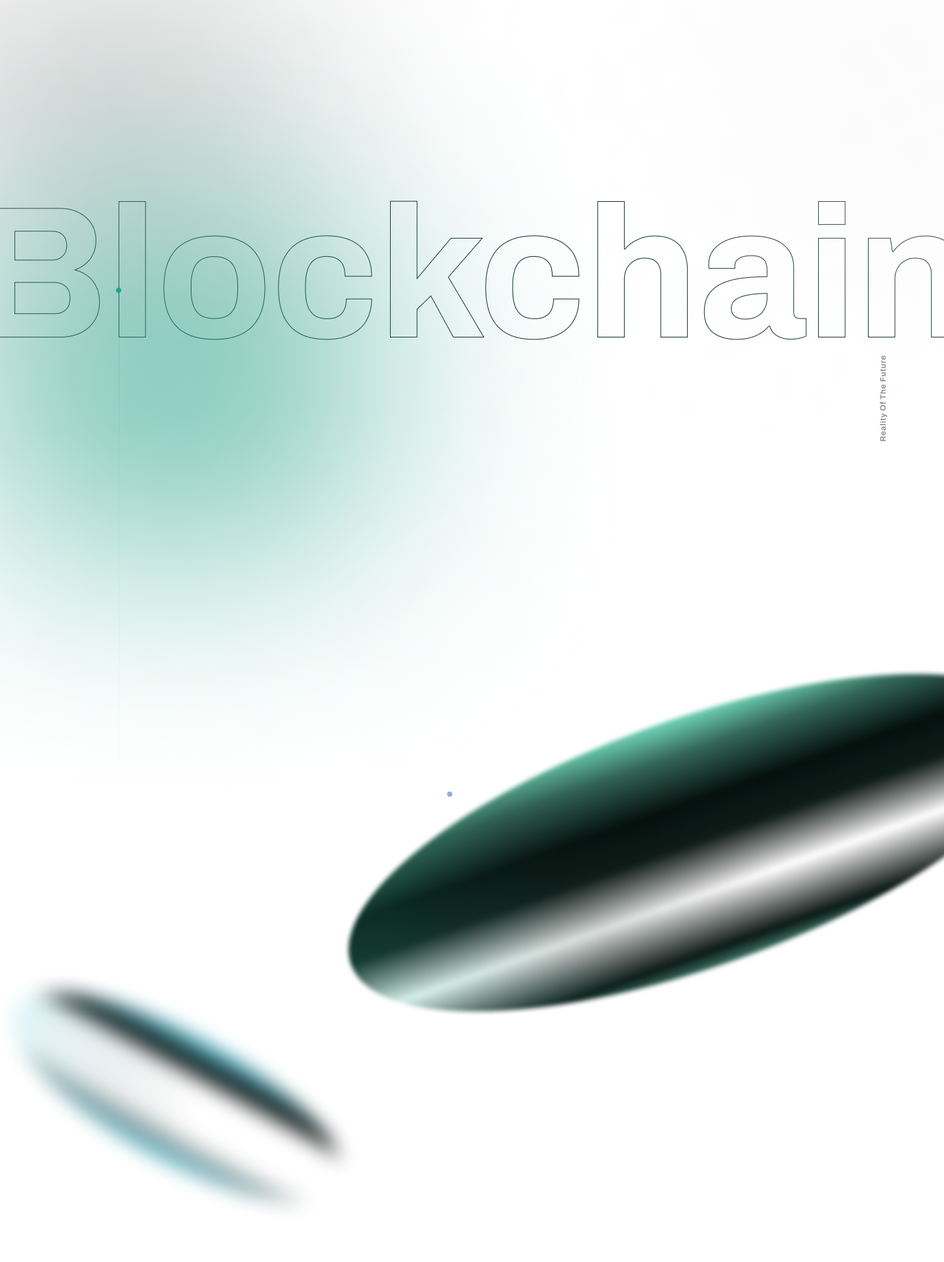
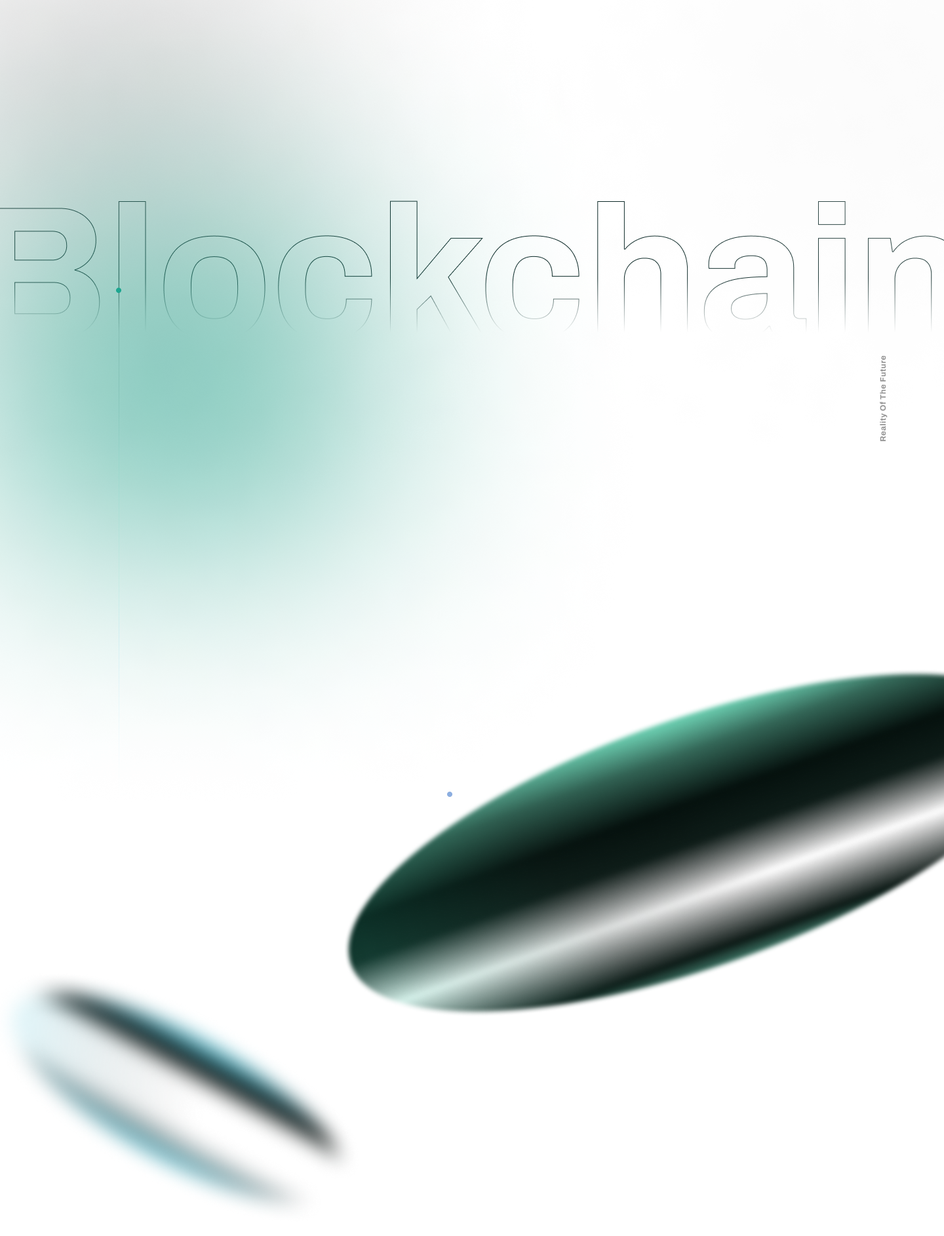
Add new element of main page and animations to the techband project

diff --git a/projects/techband/css/style.min.css b/projects/techband/css/style.min.css
@@ -1,1 +1,1 @@
-/*! normalize.css v8.0.1 | MIT License | github.com/necolas/normalize.css */html{line-height:1.15;-webkit-text-size-adjust:100%}body{margin:0}main{display:block}h1{font-size:2em;margin:.67em 0}hr{box-sizing:content-box;height:0;overflow:visible}pre{font-family:monospace,monospace;font-size:1em}a{background-color:transparent}abbr[title]{border-bottom:none;text-decoration:underline;-webkit-text-decoration:underline dotted;text-decoration:underline dotted}b,strong{font-weight:bolder}code,kbd,samp{font-family:monospace,monospace;font-size:1em}small{font-size:80%}sub,sup{font-size:75%;line-height:0;position:relative;vertical-align:baseline}sub{bottom:-.25em}sup{top:-.5em}img{border-style:none}button,input,optgroup,select,textarea{font-family:inherit;font-size:100%;line-height:1.15;margin:0}button,input{overflow:visible}button,select{text-transform:none}[type=button],[type=reset],[type=submit],button{-webkit-appearance:button}[type=button]::-moz-focus-inner,[type=reset]::-moz-focus-inner,[type=submit]::-moz-focus-inner,button::-moz-focus-inner{border-style:none;padding:0}[type=button]:-moz-focusring,[type=reset]:-moz-focusring,[type=submit]:-moz-focusring,button:-moz-focusring{outline:1px dotted ButtonText}fieldset{padding:.35em .75em .625em}legend{box-sizing:border-box;color:inherit;display:table;max-width:100%;padding:0;white-space:normal}progress{vertical-align:baseline}textarea{overflow:auto}[type=checkbox],[type=radio]{box-sizing:border-box;padding:0}[type=number]::-webkit-inner-spin-button,[type=number]::-webkit-outer-spin-button{height:auto}[type=search]{-webkit-appearance:textfield;outline-offset:-2px}[type=search]::-webkit-search-decoration{-webkit-appearance:none}::-webkit-file-upload-button{-webkit-appearance:button;font:inherit}details{display:block}summary{display:list-item}template{display:none}[hidden]{display:none}@font-face{font-family:BeVietnamPro;font-display:swap;src:url(../fonts/BeVietnamPro-Regular.woff2) format("woff2"),url(../fonts/BeVietnamPro-Regular.woff) format("woff");font-weight:400;font-style:normal}@font-face{font-family:DrukWide;font-display:swap;src:url(../fonts/DrukWide-Bold.woff2) format("woff2"),url(../fonts/DrukWide-Bold.woff) format("woff");font-weight:700;font-style:normal}@font-face{font-family:Roboto-bold;font-display:swap;src:url(../fonts/Roboto-bold.woff2) format("woff2"),url(../fonts/Roboto-bold.woff) format("woff");font-weight:700;font-style:normal}@font-face{font-family:Archivo;font-display:swap;src:url(../fonts/Archivo-Regular.woff2) format("woff2"),url(../fonts/Archivo-Regular.woff) format("woff");font-weight:400;font-style:normal}@font-face{font-family:Arimo;font-display:swap;src:url(../fonts/Arimo-Bold.woff2) format("woff2"),url(../fonts/Arimo-Bold.woff) format("woff");font-weight:700;font-style:normal}@font-face{font-family:Roboto-thin;font-display:swap;src:url(../fonts/Roboto-thin.woff2) format("woff2"),url(../fonts/Roboto-thin.woff) format("woff");font-weight:400;font-style:normal}@font-face{font-family:Roboto-medium;font-display:swap;src:url(../fonts/Roboto-medium.woff2) format("woff2"),url(../fonts/Roboto-medium.woff) format("woff");font-weight:400;font-style:normal}@font-face{font-family:Roboto;font-display:swap;src:url(../fonts/Roboto.woff2) format("woff2"),url(../fonts/Roboto.woff) format("woff");font-weight:400;font-style:normal}@font-face{font-family:"IBM Plex Sans";font-display:swap;src:url(../fonts/IBMPlexSans-Regular.woff2) format("woff2"),url(../fonts/IBMPlexSans-Regular.woff) format("woff");font-weight:400;font-style:normal}:root{font-size:16px}*{box-sizing:border-box}body{display:flex;justify-content:center;background-color:#000;color:#fff}.content-wrapper{width:100%;max-width:1440px}.content-inner{width:1260px;max-width:1260px}header{display:flex;align-items:center;justify-content:center;width:100%;height:98px;padding:0 90px}.header__content{display:flex;align-items:center;justify-content:space-between;width:100%}.header__logo{width:152px;height:29px}.header__logo img{width:100%;height:100%}.header__navwrapper{display:flex;align-items:center;justify-content:center}.header__nav{font-family:BeVietnamPro;font-style:normal;font-weight:400;font-size:16px;line-height:20px;color:#f6f6f6}.header__nav ul{list-style-type:none;margin:0;padding:0;overflow:hidden}.header__nav li{float:left}.header__nav li:not(:first-child){margin-left:50px}.header__nav li a{display:block;color:#fff;text-align:center;text-decoration:none}.header__nav li a:hover{color:#3bfabe}.header__callbackbtn{display:flex;align-items:center;justify-content:center;height:70px;width:180px;font-family:BeVietnamPro;font-style:normal;font-weight:500;font-size:16px;line-height:81.19%;letter-spacing:.03em;color:#fff;text-align:center;text-decoration:none;margin-left:64px;background-image:url(../img/CallbackBTNborder.svg);background-repeat:no-repeat}.main__magic_sphere{width:698px;height:698px;position:absolute;z-index:-100;top:450px;left:650px;border-radius:50%;overflow:hidden}.main__magic_sphere img{width:100%;height:100%}.main__wrapper{position:relative}.main__content{background-image:url(../img/bcgdesktop.png);background-repeat:no-repeat;width:100%}.main__blue_circle1{position:absolute;z-index:-1;top:500px;left:15px;-webkit-animation-name:circle1;animation-name:circle1;-webkit-animation-duration:30s;animation-duration:30s;-webkit-animation-delay:.8s;animation-delay:.8s;-webkit-animation-iteration-count:infinite;animation-iteration-count:infinite;-webkit-animation-timing-function:linear;animation-timing-function:linear}.main__blue_circle2{position:absolute;z-index:-1;top:50px;left:550px;-webkit-animation-name:circle2;animation-name:circle2;-webkit-animation-duration:30s;animation-duration:30s;-webkit-animation-delay:.8s;animation-delay:.8s;-webkit-animation-iteration-count:infinite;animation-iteration-count:infinite;-webkit-animation-timing-function:linear;animation-timing-function:linear}.main__purple_circle1{position:absolute;z-index:-1;top:350px;left:950px;-webkit-animation-name:circle3;animation-name:circle3;-webkit-animation-duration:30s;animation-duration:30s;-webkit-animation-delay:.8s;animation-delay:.8s;-webkit-animation-iteration-count:infinite;animation-iteration-count:infinite;-webkit-animation-timing-function:linear;animation-timing-function:linear}.main__purple_circle2{position:absolute;z-index:-1;top:350px;left:950px;-webkit-animation-name:circle4;animation-name:circle4;-webkit-animation-duration:30s;animation-duration:30s;-webkit-animation-delay:.8s;animation-delay:.8s;-webkit-animation-iteration-count:infinite;animation-iteration-count:infinite;-webkit-animation-timing-function:linear;animation-timing-function:linear}.main__techBandSection{width:100%}.main__bigquote{font-family:DrukWide;font-style:normal;font-weight:700;font-size:64px;line-height:88.99%;color:#3bfabe;margin:69px 0 0 90px}article{display:flex}.main__aboutTechBandArticle{width:560px;margin:192px 0 0 203px;font-family:Archivo;font-style:normal;font-weight:400;font-size:20px;line-height:22px;color:#e8e8e8}.main__aboutTechBandArticle p{margin:0}.main__aboutBlockchainContainer{display:flex;justify-content:space-between;width:100%;padding:450px 80px 0 80px}.main__aboutBlockchain{width:610px;font-family:Archivo;font-style:normal;font-weight:400;font-size:20px;line-height:22px;color:#e8e8e8;margin:0}.main__aboutBlockchain p{margin:0}.orderBtnWrapper1{margin:47px 0 0 0}.orderBtnWrapper2{margin:0 0 41px 0}.orderBtnWrapper3{margin:47px 0 0 0}.orderBtn{width:251px;height:58px;text-decoration:none;display:inline-block;cursor:pointer;font-family:Arimo;font-style:normal;font-weight:700;font-size:20px;line-height:23px;text-align:center;color:#fff;background:#09f1c2;border:2.78958px solid rgba(51,233,198,.2);box-shadow:inset -.278958px .557917px .278958px rgba(255,255,255,.5);border-radius:29px}.main__blockchainBigquote{width:609px;font-family:DrukWide;font-style:normal;font-weight:700;font-size:64px;line-height:89%;color:#e8e8e8;margin:0}.main__activities{margin:310px 0 0 0}.main__twoBlocksContainer_wrapper{position:relative}.main__twoBlocksContainer{display:flex;justify-content:space-around;padding:0 80px}.main__twoBlocksContainer2{display:flex;justify-content:space-around;padding:0 80px;margin:302px 0 0 0}.main__oneBlocksContainer{display:flex;justify-content:center;padding:0 80px;margin:262px 0 0 0}.main__oneBlocksContainer_content{position:relative}.main__bacterium1{position:absolute;top:250px;left:-150px;-webkit-animation-name:bacterium1;animation-name:bacterium1;-webkit-animation-duration:20s;animation-duration:20s;-webkit-animation-delay:.8s;animation-delay:.8s;-webkit-animation-iteration-count:infinite;animation-iteration-count:infinite;-webkit-animation-timing-function:linear;animation-timing-function:linear}.main__bacterium2{position:absolute;top:160px;left:90px;-webkit-animation-name:bacterium2;animation-name:bacterium2;-webkit-animation-duration:20s;animation-duration:20s;-webkit-animation-delay:.8s;animation-delay:.8s;-webkit-animation-iteration-count:infinite;animation-iteration-count:infinite;-webkit-animation-timing-function:linear;animation-timing-function:linear}.main__bacterium3{position:absolute;top:300px;left:700px;-webkit-animation-name:bacterium3;animation-name:bacterium3;-webkit-animation-duration:20s;animation-duration:20s;-webkit-animation-delay:.8s;animation-delay:.8s;-webkit-animation-iteration-count:infinite;animation-iteration-count:infinite;-webkit-animation-timing-function:linear;animation-timing-function:linear}.main__bacterium4{position:absolute;top:-175px;left:815px;-webkit-animation-name:bacterium4;animation-name:bacterium4;-webkit-animation-duration:20s;animation-duration:20s;-webkit-animation-delay:.8s;animation-delay:.8s;-webkit-animation-iteration-count:infinite;animation-iteration-count:infinite;-webkit-animation-timing-function:linear;animation-timing-function:linear}.main__twoBlocksContainer_item{display:flex;flex-direction:column;justify-content:space-between;width:593px;height:614px;padding:34px;-webkit-backdrop-filter:blur(114px);backdrop-filter:blur(114px);border-radius:29px}.main__twoBlocksContainer_item h2{margin:0;font-family:DrukWide;font-style:normal;font-weight:700;font-size:48px;line-height:63px;color:#e8e8e8}.main__twoBlocksContainer_item p{font-family:Archivo;font-style:normal;font-weight:400;font-size:20px;line-height:22px;color:#e8e8e8;margin:74px 0 0 0}.main__twoBlocksContainer_item1{background:linear-gradient(286.77deg,rgba(41,41,41,.14) 22.13%,rgba(85,194,255,.14) 62.17%,rgba(124,255,214,.14) 92.29%)}.main__twoBlocksContainer_item2{background:linear-gradient(252.45deg,rgba(49,49,49,.14) 16.12%,rgba(146,61,255,.14) 65.34%,rgba(82,108,243,.14) 85.69%)}.main__oneBlockContainer_item{width:1112px;height:470px;padding:34px 135px;background:rgba(0,0,0,.14);-webkit-backdrop-filter:blur(114px);backdrop-filter:blur(114px);border-radius:29px}.main__oneBlockContainer_item h2{margin:0;font-family:DrukWide;font-style:normal;font-weight:700;font-size:48px;line-height:63px;color:#e8e8e8}.main__oneBlockContainer_item p{font-family:Archivo;font-style:normal;font-weight:400;font-size:20px;line-height:22px;color:#e8e8e8;margin:74px 0 0 0}.main__portfolio{position:relative;margin:311px 0 85px 0}.main__portfolio_future{width:100%}.main__portfolio_future img{width:100%}.main__portfolio_btnBlck_wrapper{display:flex;justify-content:flex-end;position:relative;top:-30px}.main__portfolio_btnBlck{margin:0 241px 0 0}.main__portfolio_btnBlck h2{margin:0}.main__portfolio_header{font-family:DrukWide;font-style:normal;font-weight:700;font-size:64px;line-height:84px;color:#e3e3e3}.portfolioBtnWrapper{margin:50px 0 0 0}footer{width:100%;border-top:1px solid #555;padding:66px 88px 90px 88px}.footer__content{display:flex;justify-content:space-between;align-items:flex-end;width:100%}.footer__left{font-family:Roboto}.footer__left h2{font-family:Roboto;font-style:normal;font-weight:400;font-size:36px;line-height:81.19%;letter-spacing:.03em;color:#acacac;margin:0}.footer__contacts_wrapper{margin:32px 0 0 0}.footer__contacts{font-family:Roboto;font-style:normal;font-weight:400;font-size:18px;line-height:80.69%;color:#acacac;margin:0 0 15px 0}.footer__contacts_item{margin:0 0 0 13px}.footer__right{margin:0 337px 0 0}.footer__right h3{font-family:Roboto;font-style:normal;font-weight:400;font-size:18px;line-height:80.69%;color:#acacac}.footer__right_icons{display:flex;justify-content:space-between;align-items:center}.footer__right_icons img{margin:0 20px 0 0}.portfolio__content{background-image:url(../img/bcgportfolio.png);background-repeat:no-repeat;width:100%;overflow:hidden}.portfolio__content_inner{display:flex;justify-content:space-between;align-items:center;margin:14px auto 136px auto}.portfolio__left{display:flex;justify-content:center;flex-direction:column;width:525px;min-height:455px}.portfolio__project_card{width:525px;height:425px;margin:12px 0 0 0;padding:32px 40px 32px 71px;color:#000;background:#fff;border-radius:3px}.portfolio__project_header{display:flex;justify-content:center;align-items:center}.portfolio__project_main{display:flex;justify-content:space-between;overflow:visible}.portfolio__project_main_left{width:150px}.portfolio__project_name{font-family:Archivo;font-style:normal;font-weight:800;font-size:18px;line-height:88.99%;color:#ddd}.portfolio__project_main_left_p1{margin:40px 0 0 0;font-family:"IBM Plex Sans";font-style:normal;font-weight:400;font-size:14.3173px;line-height:19px;color:#000}.selection{color:#c24105}.portfolio__project_main_left_p2{font-family:"IBM Plex Sans";font-style:normal;font-weight:400;font-size:7.15867px;line-height:9px;color:#000}.portfolio__project_bottom{margin:22px 0 0 0;display:flex;justify-content:space-between}.portfolio__project_network{display:flex;width:172px;height:54px;border:1px solid rgba(0,0,0,.23);border-radius:4.51213px}.portfolio__project_network_name{display:flex;justify-content:center;align-items:center;width:116px;height:100%;font-family:"IBM Plex Sans";font-style:normal;font-weight:400;font-size:10.8291px;line-height:80.69%;color:#000;border-right:1px solid rgba(194,65,5,.26)}.portfolio__project_network_icon{display:flex;justify-content:center;align-items:center;width:55px}.portfolio__right{max-width:602px}.portfolio__project_headername{font-family:DrukWide;font-style:normal;font-weight:700;font-size:75px;line-height:75px;color:#ddd;white-space:nowrap;margin:0;outline:0;text-decoration:none}.portfolio__project_headername:hover{color:#3bfabe}@-webkit-keyframes circle1{0%{top:500px;left:15px}50%{top:50px;left:150px}100%{top:500px;left:15px}}@keyframes circle1{0%{top:500px;left:15px}50%{top:50px;left:150px}100%{top:500px;left:15px}}@-webkit-keyframes circle2{0%{top:50px;left:550px}50%{top:500px;left:560px}100%{top:50px;left:550px}}@keyframes circle2{0%{top:50px;left:550px}50%{top:500px;left:560px}100%{top:50px;left:550px}}@-webkit-keyframes circle3{0%{top:350px;left:950px}50%{top:0;left:1050px}100%{top:350px;left:950px}}@keyframes circle3{0%{top:350px;left:950px}50%{top:0;left:1050px}100%{top:350px;left:950px}}@-webkit-keyframes bacterium1{0%{top:250px;left:-150px}50%{top:300px;left:-100px}100%{top:250px;left:-150px}}@keyframes bacterium1{0%{top:250px;left:-150px}50%{top:300px;left:-100px}100%{top:250px;left:-150px}}@-webkit-keyframes bacterium2{0%{top:160px;left:90px}50%{top:10px;left:10px}100%{top:160px;left:90px}}@keyframes bacterium2{0%{top:160px;left:90px}50%{top:10px;left:10px}100%{top:160px;left:90px}}@-webkit-keyframes bacterium3{0%{top:300px;left:700px}50%{top:350px;left:750px}100%{top:300px;left:700px}}@keyframes bacterium3{0%{top:300px;left:700px}50%{top:350px;left:750px}100%{top:300px;left:700px}}@-webkit-keyframes bacterium4{0%{top:-175px;left:815px}50%{top:-175px;left:715px}100%{top:-175px;left:815px}}@keyframes bacterium4{0%{top:-175px;left:815px}50%{top:-175px;left:715px}100%{top:-175px;left:815px}}@-webkit-keyframes circle4{0%{top:350px;left:950px}50%{top:50px;left:1150px}100%{top:350px;left:950px}}@keyframes circle4{0%{top:350px;left:950px}50%{top:50px;left:1150px}100%{top:350px;left:950px}}
+/*! normalize.css v8.0.1 | MIT License | github.com/necolas/normalize.css */html{line-height:1.15;-webkit-text-size-adjust:100%}body{margin:0}main{display:block}h1{font-size:2em;margin:.67em 0}hr{box-sizing:content-box;height:0;overflow:visible}pre{font-family:monospace,monospace;font-size:1em}a{background-color:transparent}abbr[title]{border-bottom:none;text-decoration:underline;-webkit-text-decoration:underline dotted;text-decoration:underline dotted}b,strong{font-weight:bolder}code,kbd,samp{font-family:monospace,monospace;font-size:1em}small{font-size:80%}sub,sup{font-size:75%;line-height:0;position:relative;vertical-align:baseline}sub{bottom:-.25em}sup{top:-.5em}img{border-style:none}button,input,optgroup,select,textarea{font-family:inherit;font-size:100%;line-height:1.15;margin:0}button,input{overflow:visible}button,select{text-transform:none}[type=button],[type=reset],[type=submit],button{-webkit-appearance:button}[type=button]::-moz-focus-inner,[type=reset]::-moz-focus-inner,[type=submit]::-moz-focus-inner,button::-moz-focus-inner{border-style:none;padding:0}[type=button]:-moz-focusring,[type=reset]:-moz-focusring,[type=submit]:-moz-focusring,button:-moz-focusring{outline:1px dotted ButtonText}fieldset{padding:.35em .75em .625em}legend{box-sizing:border-box;color:inherit;display:table;max-width:100%;padding:0;white-space:normal}progress{vertical-align:baseline}textarea{overflow:auto}[type=checkbox],[type=radio]{box-sizing:border-box;padding:0}[type=number]::-webkit-inner-spin-button,[type=number]::-webkit-outer-spin-button{height:auto}[type=search]{-webkit-appearance:textfield;outline-offset:-2px}[type=search]::-webkit-search-decoration{-webkit-appearance:none}::-webkit-file-upload-button{-webkit-appearance:button;font:inherit}details{display:block}summary{display:list-item}template{display:none}[hidden]{display:none}@font-face{font-family:BeVietnamPro;font-display:swap;src:url(../fonts/BeVietnamPro-Regular.woff2) format("woff2"),url(../fonts/BeVietnamPro-Regular.woff) format("woff");font-weight:400;font-style:normal}@font-face{font-family:DrukWide;font-display:swap;src:url(../fonts/DrukWide-Bold.woff2) format("woff2"),url(../fonts/DrukWide-Bold.woff) format("woff");font-weight:700;font-style:normal}@font-face{font-family:Roboto-bold;font-display:swap;src:url(../fonts/Roboto-bold.woff2) format("woff2"),url(../fonts/Roboto-bold.woff) format("woff");font-weight:700;font-style:normal}@font-face{font-family:Archivo;font-display:swap;src:url(../fonts/Archivo-Regular.woff2) format("woff2"),url(../fonts/Archivo-Regular.woff) format("woff");font-weight:400;font-style:normal}@font-face{font-family:Arimo;font-display:swap;src:url(../fonts/Arimo-Bold.woff2) format("woff2"),url(../fonts/Arimo-Bold.woff) format("woff");font-weight:700;font-style:normal}@font-face{font-family:Roboto-thin;font-display:swap;src:url(../fonts/Roboto-thin.woff2) format("woff2"),url(../fonts/Roboto-thin.woff) format("woff");font-weight:400;font-style:normal}@font-face{font-family:Roboto-medium;font-display:swap;src:url(../fonts/Roboto-medium.woff2) format("woff2"),url(../fonts/Roboto-medium.woff) format("woff");font-weight:400;font-style:normal}@font-face{font-family:Roboto;font-display:swap;src:url(../fonts/Roboto.woff2) format("woff2"),url(../fonts/Roboto.woff) format("woff");font-weight:400;font-style:normal}@font-face{font-family:"IBM Plex Sans";font-display:swap;src:url(../fonts/IBMPlexSans-Regular.woff2) format("woff2"),url(../fonts/IBMPlexSans-Regular.woff) format("woff");font-weight:400;font-style:normal}:root{font-size:16px}*{box-sizing:border-box}body{display:flex;justify-content:center;background-color:#000;color:#fff}.content-wrapper{width:100%;max-width:1440px}.content-inner{width:100%;max-width:1260px}header{display:flex;align-items:center;justify-content:center;width:100%;height:98px;padding:0 90px}.header__content{display:flex;align-items:center;justify-content:space-between;width:100%}.header__logo{width:152px;height:29px}.header__logo img{width:100%;height:100%}.header__navwrapper{display:flex;align-items:center;justify-content:center}.header__nav{font-family:BeVietnamPro;font-style:normal;font-weight:400;font-size:16px;line-height:20px;color:#f6f6f6}.header__nav ul{list-style-type:none;margin:0;padding:0;overflow:hidden}.header__nav li{float:left}.header__nav li:not(:first-child){margin-left:50px}.header__nav li a{display:block;color:#fff;text-align:center;text-decoration:none}.header__nav li a:hover{color:#3bfabe}.header__callbackbtn{display:flex;align-items:center;justify-content:center;height:70px;width:180px;font-family:BeVietnamPro;font-style:normal;font-weight:500;font-size:16px;line-height:81.19%;letter-spacing:.03em;color:#fff;text-align:center;text-decoration:none;margin-left:64px;background-image:url(../img/CallbackBTNborder.svg);background-repeat:no-repeat}.main__magic_sphere{width:698px;height:698px;position:absolute;z-index:-100;top:466px;left:656px;border-radius:50%;overflow:hidden}.main__magic_sphere img{width:100%;height:100%}.main__wrapper{position:relative}.main__content{background-image:url(../img/bcgdesktop.png);background-repeat:no-repeat;width:100%;min-widtH:1440px}.main__blue_circle1{position:absolute;z-index:-1;top:500px;left:15px;-webkit-animation-name:circle1;animation-name:circle1;-webkit-animation-duration:30s;animation-duration:30s;-webkit-animation-delay:.8s;animation-delay:.8s;-webkit-animation-iteration-count:infinite;animation-iteration-count:infinite;-webkit-animation-timing-function:linear;animation-timing-function:linear}.main__blue_circle2{position:absolute;z-index:-1;top:50px;left:550px;-webkit-animation-name:circle2;animation-name:circle2;-webkit-animation-duration:30s;animation-duration:30s;-webkit-animation-delay:.8s;animation-delay:.8s;-webkit-animation-iteration-count:infinite;animation-iteration-count:infinite;-webkit-animation-timing-function:linear;animation-timing-function:linear}.main__purple_circle1{position:absolute;z-index:-1;top:350px;left:950px;-webkit-animation-name:circle3;animation-name:circle3;-webkit-animation-duration:30s;animation-duration:30s;-webkit-animation-delay:.8s;animation-delay:.8s;-webkit-animation-iteration-count:infinite;animation-iteration-count:infinite;-webkit-animation-timing-function:linear;animation-timing-function:linear}.main__purple_circle2{position:absolute;z-index:-1;top:350px;left:950px;-webkit-animation-name:circle4;animation-name:circle4;-webkit-animation-duration:30s;animation-duration:30s;-webkit-animation-delay:.8s;animation-delay:.8s;-webkit-animation-iteration-count:infinite;animation-iteration-count:infinite;-webkit-animation-timing-function:linear;animation-timing-function:linear}.main__techBandSection{width:100%}.main__bigquote{font-family:DrukWide;font-style:normal;font-weight:700;font-size:64px;line-height:88.99%;color:#3bfabe;margin:69px 0 0 90px}article{display:flex}.main__aboutTechBandArticle{width:560px;margin:192px 0 0 203px;font-family:Archivo;font-style:normal;font-weight:400;font-size:20px;line-height:22px;color:#e8e8e8}.main__aboutTechBandArticle p{margin:0}.main__aboutBlockchainContainer{display:flex;justify-content:space-between;width:100%;padding:450px 80px 0 80px}.main__aboutBlockchain{width:610px;font-family:Archivo;font-style:normal;font-weight:400;font-size:20px;line-height:22px;color:#e8e8e8;margin:0}.main__aboutBlockchain p{margin:0}.orderBtnWrapper1{margin:47px 0 0 0}.orderBtnWrapper2{margin:0 0 41px 0}.orderBtnWrapper3{margin:47px 0 0 0}.orderBtn{width:251px;height:58px;text-decoration:none;display:inline-block;cursor:pointer;font-family:Arimo;font-style:normal;font-weight:700;font-size:20px;line-height:23px;text-align:center;color:#fff;background:#09f1c2;border:1px solid #64e9e9;border-radius:29px}.main__blockchainBigquote{width:609px;font-family:DrukWide;font-style:normal;font-weight:700;font-size:64px;line-height:89%;color:#e8e8e8;margin:0}.main__activities{margin:310px 0 0 0}.main__twoBlocksContainer_wrapper{position:relative}.main__twoBlocksContainer{display:flex;justify-content:space-around;padding:0 80px}.main__twoBlocksContainer2{display:flex;justify-content:space-around;padding:0 80px;margin:302px 0 0 0}.main__oneBlocksContainer{display:flex;justify-content:center;padding:0 80px;margin:262px 0 0 0}.main__oneBlocksContainer_content{position:relative}.main__bacterium1{position:absolute;top:250px;left:-150px;-webkit-animation-name:bacterium1;animation-name:bacterium1;-webkit-animation-duration:20s;animation-duration:20s;-webkit-animation-delay:.8s;animation-delay:.8s;-webkit-animation-iteration-count:infinite;animation-iteration-count:infinite;-webkit-animation-timing-function:linear;animation-timing-function:linear}.main__bacterium2{position:absolute;top:160px;left:90px;-webkit-animation-name:bacterium2;animation-name:bacterium2;-webkit-animation-duration:20s;animation-duration:20s;-webkit-animation-delay:.8s;animation-delay:.8s;-webkit-animation-iteration-count:infinite;animation-iteration-count:infinite;-webkit-animation-timing-function:linear;animation-timing-function:linear}.main__bacterium3{position:absolute;top:300px;left:700px;-webkit-animation-name:bacterium3;animation-name:bacterium3;-webkit-animation-duration:20s;animation-duration:20s;-webkit-animation-delay:.8s;animation-delay:.8s;-webkit-animation-iteration-count:infinite;animation-iteration-count:infinite;-webkit-animation-timing-function:linear;animation-timing-function:linear}.main__bacterium4{position:absolute;top:-175px;left:815px;-webkit-animation-name:bacterium4;animation-name:bacterium4;-webkit-animation-duration:20s;animation-duration:20s;-webkit-animation-delay:.8s;animation-delay:.8s;-webkit-animation-iteration-count:infinite;animation-iteration-count:infinite;-webkit-animation-timing-function:linear;animation-timing-function:linear}.main__twoBlocksContainer_item{display:flex;flex-direction:column;justify-content:space-between;width:593px;height:614px;padding:34px;-webkit-backdrop-filter:blur(114px);backdrop-filter:blur(114px);border-radius:29px}.main__twoBlocksContainer_item h2{margin:0;font-family:DrukWide;font-style:normal;font-weight:700;font-size:48px;line-height:63px;color:#e8e8e8}.main__twoBlocksContainer_item p{text-align:justify;font-family:Archivo;font-style:normal;font-weight:400;font-size:20px;line-height:22px;color:#e8e8e8;margin:74px 0 0 0}.main__twoBlocksContainer_item1{background:linear-gradient(286.77deg,rgba(41,41,41,.14) 22.13%,rgba(85,194,255,.14) 62.17%,rgba(124,255,214,.14) 92.29%)}.main__twoBlocksContainer_item2{background:linear-gradient(252.45deg,rgba(49,49,49,.14) 16.12%,rgba(146,61,255,.14) 65.34%,rgba(82,108,243,.14) 85.69%)}.main__oneBlockContainer_item{width:1112px;height:470px;padding:34px 135px;background:rgba(0,0,0,.14);-webkit-backdrop-filter:blur(114px);backdrop-filter:blur(114px);border-radius:29px}.main__oneBlockContainer_item h2{margin:0;font-family:DrukWide;font-style:normal;font-weight:700;font-size:48px;line-height:63px;color:#e8e8e8}.main__oneBlockContainer_item p{text-align:justify;font-family:Archivo;font-style:normal;font-weight:400;font-size:20px;line-height:22px;color:#e8e8e8;margin:74px 0 0 0}.main__portfolio{position:relative;margin:311px 0 85px 0}.main__portfolio_future{position:relative;width:100%;height:280px;background-image:url(../img/FUTURE.png);background-repeat:no-repeat;background-size:100%}.main__future_hide{position:absolute;top:51px;right:-390px;transition:.5s}.main__future{position:absolute;top:51px;right:100px;transition:.5s}.main__is_hide{position:absolute;top:75px;right:-600px;transition:1s;transition-delay:.5s}.main__is{position:absolute;top:75px;right:530px;transition:1s;transition-delay:.5s}.main__now_hide{position:absolute;top:51px;right:-250px;transition:2s;transition-delay:1.5s}.main__now{position:absolute;top:51px;right:1125px;transition:2s;transition-delay:1.5s}.main__portfolio_btnBlck_wrapper{display:flex;justify-content:flex-end;position:relative;top:-30px}.main__portfolio_btnBlck{margin:0 215px 0 0}.main__portfolio_btnBlck h2{margin:0}.main__portfolio_header{font-family:DrukWide;font-style:normal;font-weight:700;font-size:64px;line-height:84px;color:#e3e3e3}.portfolioBtnWrapper{margin:50px 0 0 0}footer{width:100%;border-top:1px solid #555;padding:66px 88px 90px 88px}.footer__content{display:flex;justify-content:space-between;align-items:flex-end;width:100%}.footer__left{font-family:Roboto}.footer__left h2{font-family:Roboto;font-style:normal;font-weight:400;font-size:36px;line-height:81.19%;letter-spacing:.03em;color:#acacac;margin:0}.footer__contacts_wrapper{margin:32px 0 0 0}.footer__contacts{font-family:Roboto;font-style:normal;font-weight:400;font-size:18px;line-height:80.69%;color:#acacac;margin:0 0 15px 0}.footer__contacts_item{margin:0 0 0 13px}.footer__right{margin:0 337px 0 0}.footer__right h3{font-family:Roboto;font-style:normal;font-weight:400;font-size:18px;line-height:80.69%;color:#acacac}.footer__right_icons{display:flex;justify-content:space-between;align-items:center}.footer__right_icons img{margin:0 20px 0 0}.portfolio__content{background-image:url(../img/bcgportfolio.png);background-repeat:no-repeat;width:100%;overflow:hidden}.portfolio__content_inner{display:flex;justify-content:space-between;align-items:center;margin:14px auto 136px auto}.portfolio__left{display:flex;justify-content:center;flex-direction:column;width:525px;min-height:455px}.portfolio__project_card{width:525px;height:425px;margin:12px 0 0 0;padding:32px 40px 32px 71px;color:#000;background:#fff;border-radius:3px}.portfolio__project_header{display:flex;justify-content:center;align-items:center}.portfolio__project_main{display:flex;justify-content:space-between;overflow:visible}.portfolio__project_main_left{width:150px}.portfolio__project_name{font-family:Archivo;font-style:normal;font-weight:800;font-size:18px;line-height:88.99%;color:#ddd}.portfolio__project_main_left_p1{margin:40px 0 0 0;font-family:"IBM Plex Sans";font-style:normal;font-weight:400;font-size:14.3173px;line-height:19px;color:#000}.selection{color:#c24105}.portfolio__project_main_left_p2{font-family:"IBM Plex Sans";font-style:normal;font-weight:400;font-size:7.15867px;line-height:9px;color:#000}.portfolio__project_bottom{margin:22px 0 0 0;display:flex;justify-content:space-between}.portfolio__project_network{display:flex;width:172px;height:54px;border:1px solid rgba(0,0,0,.23);border-radius:4.51213px}.portfolio__project_network_name{display:flex;justify-content:center;align-items:center;width:116px;height:100%;font-family:"IBM Plex Sans";font-style:normal;font-weight:400;font-size:10.8291px;line-height:80.69%;color:#000;border-right:1px solid rgba(194,65,5,.26)}.portfolio__project_network_icon{display:flex;justify-content:center;align-items:center;width:55px}.portfolio__right{max-width:602px}.portfolio__project_headername{font-family:DrukWide;font-style:normal;font-weight:700;font-size:75px;line-height:75px;color:#ddd;white-space:nowrap;margin:0;outline:0;text-decoration:none}.portfolio__project_headername:hover{color:#3bfabe}@-webkit-keyframes circle1{0%{top:500px;left:15px}50%{top:50px;left:150px}100%{top:500px;left:15px}}@keyframes circle1{0%{top:500px;left:15px}50%{top:50px;left:150px}100%{top:500px;left:15px}}@-webkit-keyframes circle2{0%{top:50px;left:550px}50%{top:500px;left:560px}100%{top:50px;left:550px}}@keyframes circle2{0%{top:50px;left:550px}50%{top:500px;left:560px}100%{top:50px;left:550px}}@-webkit-keyframes circle3{0%{top:350px;left:950px}50%{top:0;left:1050px}100%{top:350px;left:950px}}@keyframes circle3{0%{top:350px;left:950px}50%{top:0;left:1050px}100%{top:350px;left:950px}}@-webkit-keyframes bacterium1{0%{top:250px;left:-150px}50%{top:300px;left:-100px}100%{top:250px;left:-150px}}@keyframes bacterium1{0%{top:250px;left:-150px}50%{top:300px;left:-100px}100%{top:250px;left:-150px}}@-webkit-keyframes bacterium2{0%{top:160px;left:90px}50%{top:10px;left:10px}100%{top:160px;left:90px}}@keyframes bacterium2{0%{top:160px;left:90px}50%{top:10px;left:10px}100%{top:160px;left:90px}}@-webkit-keyframes bacterium3{0%{top:300px;left:700px}50%{top:350px;left:750px}100%{top:300px;left:700px}}@keyframes bacterium3{0%{top:300px;left:700px}50%{top:350px;left:750px}100%{top:300px;left:700px}}@-webkit-keyframes bacterium4{0%{top:-175px;left:815px}50%{top:-175px;left:715px}100%{top:-175px;left:815px}}@keyframes bacterium4{0%{top:-175px;left:815px}50%{top:-175px;left:715px}100%{top:-175px;left:815px}}@-webkit-keyframes circle4{0%{top:350px;left:950px}50%{top:50px;left:1150px}100%{top:350px;left:950px}}@keyframes circle4{0%{top:350px;left:950px}50%{top:50px;left:1150px}100%{top:350px;left:950px}}

diff --git a/projects/techband/index.html b/projects/techband/index.html
@@ -5,7 +5,7 @@
   <meta http-equiv="X-UA-Compatible" content="IE=edge">
   <meta name="viewport" content="width=device-width, initial-scale=1.0">
   <link rel="shortcut icon" href="img/favicon.ico" type="image/x-icon">
-  <link rel="stylesheet" href="css/style.min.css?_v=20220808051142">
+  <link rel="stylesheet" href="css/style.min.css?_v=20220808184929">
   <title>Main</title>
 </head>
   <body>
@@ -141,7 +141,7 @@
               <img class="main__blue_circle2" src="img/blueCircle.png" alt="Blue circle">
               <img class="main__purple_circle2" src="img/purpleCircle.png" alt="Perple circle">
               <div class="main__twoBlocksContainer2">
-                <div class="main__twoBlocksContainer_item">
+                <div class="main__twoBlocksContainer_item main__twoBlocksContainer_item1">
                   <div>
                     <h2>
                       DeFi
@@ -157,7 +157,7 @@
                     </button>
                   </div>
                 </div>
-                <div class="main__twoBlocksContainer_item">
+                <div class="main__twoBlocksContainer_item main__twoBlocksContainer_item2">
                   <div>
                     <h2>
                       BoxSolutions
@@ -176,9 +176,32 @@
               </div>
             </div>
           </section>
+          <div class="main__oneBlocksContainer">
+            <div class="main__oneBlocksContainer_content">
+              <img class="main__bacterium1" src="img/bacterium1.png" alt="Bacterium image">
+              <img class="main__bacterium2" src="img/bacterium2.png" alt="Bacterium image">
+              <img class="main__bacterium3" src="img/bacterium3.png" alt="Bacterium image">
+              <img class="main__bacterium4" src="img/bacterium4.png" alt="Bacterium image">
+              <div class="main__oneBlockContainer_item">
+                <h2>
+                  NFT Development
+                </h2>
+                <p>
+                  The Bored Ape Yacht Club and Cryptopunks have generated an unprecedented interest in the NFT industry, which has become a new popular trend in the arts. If you want to create your own collection or make your own marketplace, then we will be happy to create a unique product for you. Our team has a wide range of experience in the field of NFTs: we have created auctions, marketplaces, custom collections, and various financial NFTs. Even if you want to digitalize your physical collections, we know how to do it!
+                </p>
+                <div class="orderBtnWrapper3">
+                  <button class="orderBtn">
+                    Order a development
+                  </button>
+                </div>
+              </div>
+            </div>
+          </div>
           <section class="main__portfolio">
             <div class="main__portfolio_future">
-              <img src="img/FUTURE.png" alt="Future">
+              <img class="main__future_hide" src="img/futureWord.png" alt="Future word">
+              <img class="main__is_hide" src="img/isWord.png" alt="Is word">
+              <img class="main__now_hide" src="img/nowWord.png" alt="Now word">
             </div>
             <div class="main__portfolio_btnBlck_wrapper">
               <div class="main__portfolio_btnBlck">
@@ -227,6 +250,6 @@
   </div>
 </footer>
     </div>
-    <script src="js/app.min.js?_v=20220808051142"></script>
+    <script src="js/app.min.js?_v=20220808184929"></script>
   </body>
 </html>

diff --git a/projects/techband/css/style.css b/projects/techband/css/style.css
@@ -472,7 +472,7 @@ body {
 }
 
 .content-inner {
-  width: 1260px;
+  width: 100%;
   max-width: 1260px;
 }
 
@@ -568,8 +568,8 @@ header {
   height: 698px;
   position: absolute;
   z-index: -100;
-  top: 450px;
-  left: 650px;
+  top: 466px;
+  left: 656px;
   border-radius: 50%;
   overflow: hidden;
 }
@@ -587,6 +587,7 @@ header {
   background-image: url("../img/bcgdesktop.png");
   background-repeat: no-repeat;
   width: 100%;
+  min-widtH: 1440px;
 }
 
 .main__blue_circle1 {
@@ -738,8 +739,7 @@ article {
   text-align: center;
   color: #FFFFFF;
   background: #09F1C2;
-  border: 2.78958px solid rgba(51, 233, 198, 0.2);
-  box-shadow: inset -0.278958px 0.557917px 0.278958px rgba(255, 255, 255, 0.5);
+  border: 1px solid rgb(100, 233, 233);
   border-radius: 29px;
 }
 
@@ -873,6 +873,7 @@ article {
 }
 
 .main__twoBlocksContainer_item p {
+  text-align: justify;
   font-family: "Archivo";
   font-style: normal;
   font-weight: 400;
@@ -911,6 +912,7 @@ article {
 }
 
 .main__oneBlockContainer_item p {
+  text-align: justify;
   font-family: "Archivo";
   font-style: normal;
   font-weight: 400;
@@ -926,11 +928,58 @@ article {
 }
 
 .main__portfolio_future {
+  position: relative;
   width: 100%;
+  height: 280px;
+  background-image: url("../img/FUTURE.png");
+  background-repeat: no-repeat;
+  background-size: 100%;
 }
 
-.main__portfolio_future img {
-  width: 100%;
+.main__future_hide {
+  position: absolute;
+  top: 51px;
+  right: -390px;
+  transition: 500ms;
+}
+
+.main__future {
+  position: absolute;
+  top: 51px;
+  right: 100px;
+  transition: 500ms;
+}
+
+.main__is_hide {
+  position: absolute;
+  top: 75px;
+  right: -600px;
+  transition: 1000ms;
+  transition-delay: 500ms;
+}
+
+.main__is {
+  position: absolute;
+  top: 75px;
+  right: 530px;
+  transition: 1000ms;
+  transition-delay: 500ms;
+}
+
+.main__now_hide {
+  position: absolute;
+  top: 51px;
+  right: -250px;
+  transition: 2000ms;
+  transition-delay: 1500ms;
+}
+
+.main__now {
+  position: absolute;
+  top: 51px;
+  right: 1125px;
+  transition: 2000ms;
+  transition-delay: 1500ms;
 }
 
 .main__portfolio_btnBlck_wrapper {
@@ -941,7 +990,7 @@ article {
 }
 
 .main__portfolio_btnBlck {
-  margin: 0 241px 0 0;
+  margin: 0 215px 0 0;
 }
 
 .main__portfolio_btnBlck h2 {

diff --git a/projects/techband/js/app.min.js b/projects/techband/js/app.min.js
@@ -1,1 +1,1 @@
-(()=>{"use strict";console.log("Hello!"),console.log("This is Helper function")})();
+(()=>{"use strict";window.onload=function(){let n=!1;function e(n){let e=n.getBoundingClientRect(),i=e.top,t=e.bottom;return i>=0&&t<=window.innerHeight}window.addEventListener("scroll",(function(e){0==n&&window.requestAnimationFrame((function(){s(),n=!1})),n=!0}),!1),document.addEventListener("DOMContentLoaded",s,!1);let i=[],t=0,o=[".main__future_hide",".main__is_hide",".main__now_hide"];for(let n=0;n<o.length;n++)i.push([document.querySelector(o[n]),!0]);function s(n){for(let n=0;n<i.length;n++){if(t==o.length){document.removeEventListener("DOMContentLoaded",s);break}i[n][1]&&e(i[n][0])&&(i[n][0].classList.contains("main__future_hide")?(i[n][0].classList.remove("main__future_hide"),i[n][0].classList.add("main__future"),i[n][1]=!1):i[n][0].classList.contains("main__is_hide")?(i[n][0].classList.remove("main__is_hide"),i[n][0].classList.add("main__is"),i[n][1]=!1):i[n][0].classList.contains("main__now_hide")&&(i[n][0].classList.remove("main__now_hide"),i[n][0].classList.add("main__now"),i[n][1]=!1),t+=1)}}console.dir(i),console.log("Hello")}})();

diff --git a/projects/techband/portfolio.html b/projects/techband/portfolio.html
@@ -5,7 +5,7 @@
   <meta http-equiv="X-UA-Compatible" content="IE=edge">
   <meta name="viewport" content="width=device-width, initial-scale=1.0">
   <link rel="shortcut icon" href="img/favicon.ico" type="image/x-icon">
-  <link rel="stylesheet" href="css/style.min.css?_v=20220808051142">
+  <link rel="stylesheet" href="css/style.min.css?_v=20220808184929">
   <title>Portfolio</title>
 </head>
   <body>
@@ -115,6 +115,6 @@
   </div>
 </footer>
     </div>
-    <script src="js/app.min.js?_v=20220808051142"></script>
+    <script src="js/app.min.js?_v=20220808184929"></script>
   </body>
 </html>
